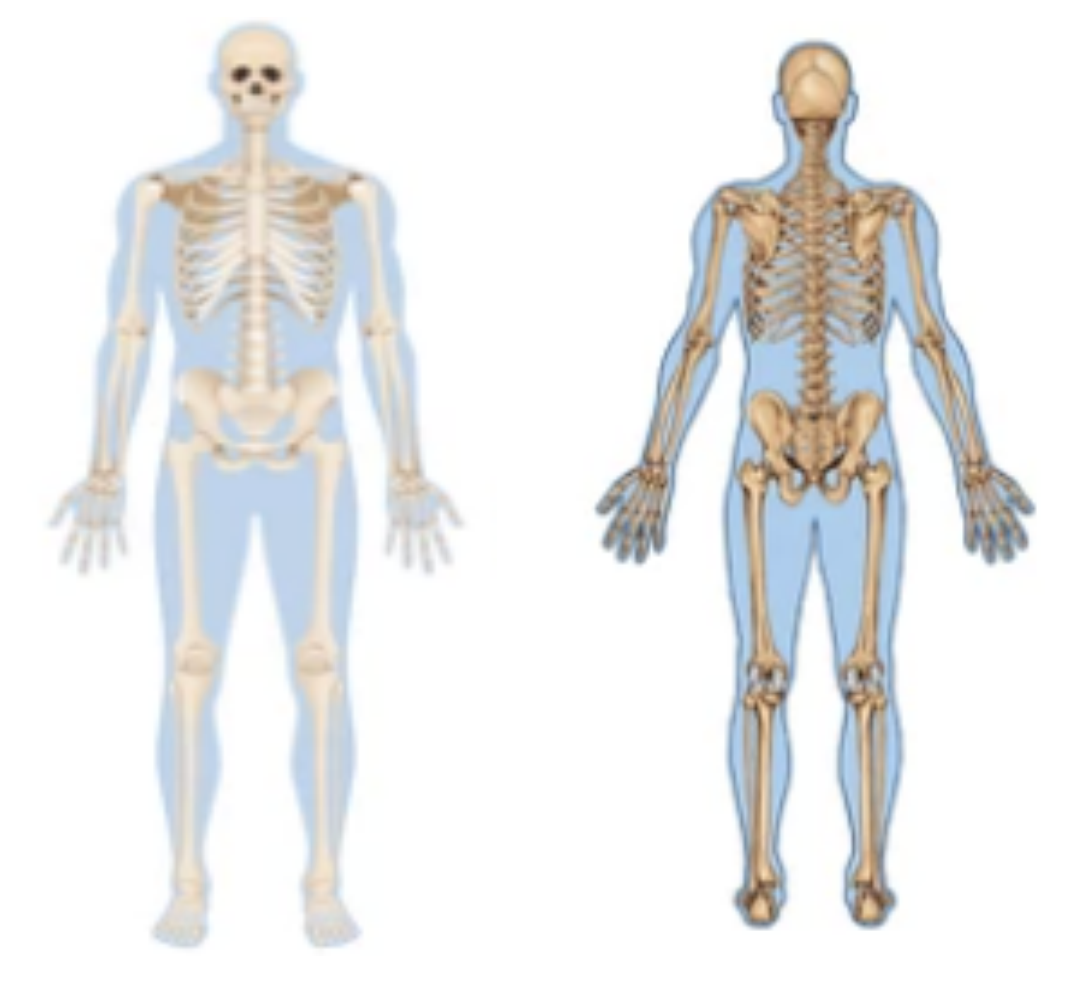
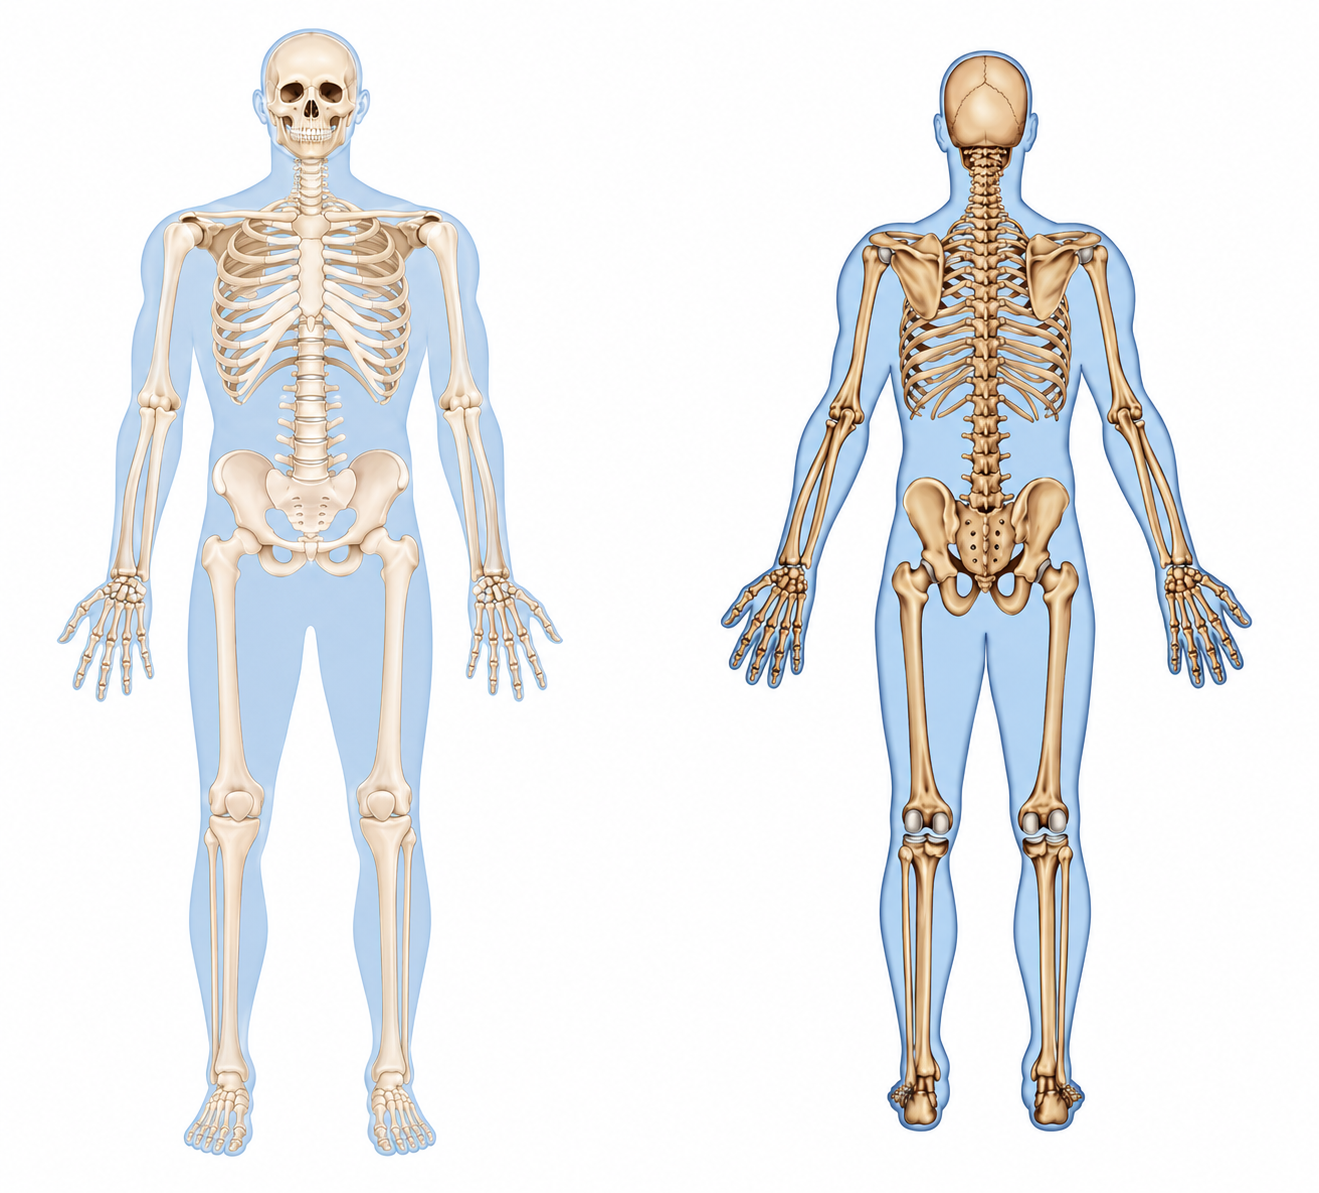
fix(investigation-reports): resolve 6 QA bugs
- Editor (Parts A/A1/A2/L): clicking anywhere in the TipTap container now focuses the editor (onClick on wrapper div)
- Part K table: add align-top to td cells and whitespace-nowrap to headers so Investigator Team / Name columns are properly inline
- B1/B2/B3 checkboxes: IncidentSectionB now accepts bodyPartsSummary/injuryTypesSummary/mechanismsSummary override props; detail page and PDF template pass the report's stored arrays instead of deriving from incident injured persons
- PDF HTML rendering: Section A description, A1 task, A2 equipment now use dangerouslySetInnerHTML in PDF template to prevent raw <p> tags appearing
- Re-create after soft-delete: replace hard @unique on incidentId with a conditional unique index (WHERE isActive = true) via migration; service create() now checks isActive: true via findFirst

Changed region(s): [[0.5303, 0.0304, 0.967, 0.9736], [0.0312, 0.0, 0.4367, 0.9736], [0.2183, 0.5172, 0.2495, 0.6085]]

diff --git a/frontend/src/modules/investigation-reports/components/InvestigationReportForm.tsx b/frontend/src/modules/investigation-reports/components/InvestigationReportForm.tsx
@@ -1475,9 +1475,9 @@ const InvestigationReportForm = ({ incident, report, mode }: Props) => {
                 <table className="w-full text-sm">
                   <thead>
                     <tr className="border-b bg-muted/40">
-                      <th className="text-left p-2 font-medium">Investigator Team / Tim Penyidik</th>
-                      <th className="text-left p-2 font-medium">Name / Nama</th>
-                      <th className="text-left p-2 font-medium">Date / Tanggal</th>
+                      <th className="text-left p-2 font-medium whitespace-nowrap">Investigator Team / Tim Penyidik</th>
+                      <th className="text-left p-2 font-medium whitespace-nowrap">Name / Nama</th>
+                      <th className="text-left p-2 font-medium whitespace-nowrap">Date / Tanggal</th>
                       <th className="w-10 p-2" />
                     </tr>
                   </thead>
@@ -1487,7 +1487,7 @@ const InvestigationReportForm = ({ incident, report, mode }: Props) => {
                       const label = role ? SIGNATORY_ROLE_LABELS[role] : null;
                       return (
                         <tr key={field.id} className="border-b last:border-0">
-                          <td className="p-2">
+                          <td className="p-2 align-top">
                             {label && (
                               <p className="text-xs font-medium text-muted-foreground mb-1">
                                 {label.en} / {label.id}
@@ -1506,7 +1506,7 @@ const InvestigationReportForm = ({ incident, report, mode }: Props) => {
                               )}
                             />
                           </td>
-                          <td className="p-2">
+                          <td className="p-2 align-top">
                             <FormField
                               control={form.control}
                               name={`signatories.${index}.name`}
@@ -1520,7 +1520,7 @@ const InvestigationReportForm = ({ incident, report, mode }: Props) => {
                               )}
                             />
                           </td>
-                          <td className="p-2">
+                          <td className="p-2 align-top">
                             <FormField
                               control={form.control}
                               name={`signatories.${index}.signedAt`}

diff --git a/frontend/src/modules/investigation-reports/components/incident-readonly/IncidentSectionB.tsx b/frontend/src/modules/investigation-reports/components/incident-readonly/IncidentSectionB.tsx
@@ -14,6 +14,9 @@ interface Props {
   incident: Incident;
   variant?: SectionVariant;
   bodyDiagramUrl?: string | null;
+  bodyPartsSummary?: string[];
+  injuryTypesSummary?: string[];
+  mechanismsSummary?: string[];
 }
 
 // PRD §B1 — HEAD and NECK collapse into a single "Head / Neck" choice.
@@ -79,19 +82,34 @@ const LEVEL_OF_INJURY_ROWS: Array<{
   { value: IncidentClassificationEnum.FATALITY, en: 'Fatality (loss of life)', id: 'Kehilangan nyawa' },
 ];
 
-const IncidentSectionB = ({ incident, variant = 'card', bodyDiagramUrl }: Props) => {
+const IncidentSectionB = ({
+  incident,
+  variant = 'card',
+  bodyDiagramUrl,
+  bodyPartsSummary,
+  injuryTypesSummary,
+  mechanismsSummary,
+}: Props) => {
   const persons = incident.injuredPersons ?? [];
   const hasPersons = persons.length > 0;
 
-  const bodyParts = new Set<string>(persons.map((p) => p.injuredBodyPart));
-  const typesOfInjury = new Set<string>(persons.map((p) => p.typeOfInjury));
-  const mechanisms = new Set<string>(persons.map((p) => p.mechanismOfInjury));
+  const bodyParts = bodyPartsSummary
+    ? new Set<string>(bodyPartsSummary)
+    : new Set<string>(persons.map((p) => p.injuredBodyPart));
+  const typesOfInjury = injuryTypesSummary
+    ? new Set<string>(injuryTypesSummary)
+    : new Set<string>(persons.map((p) => p.typeOfInjury));
+  const mechanisms = mechanismsSummary
+    ? new Set<string>(mechanismsSummary)
+    : new Set<string>(persons.map((p) => p.mechanismOfInjury));
+
+  const hasData = bodyPartsSummary ? bodyPartsSummary.length > 0 || (injuryTypesSummary?.length ?? 0) > 0 || (mechanismsSummary?.length ?? 0) > 0 : hasPersons;
 
   const isBodyPartChecked = (row: typeof BODY_PART_ROWS[number]) =>
     row.values.some((v) => bodyParts.has(v));
 
   if (variant === 'pdf') {
-    if (!hasPersons) {
+    if (!hasData) {
       return (
         <SectionShell variant="pdf" title="B. Injury Details / Rincian Cidera">
           <p style={{ marginBottom: 12 }}>No injured person during this incident.</p>
@@ -155,7 +173,7 @@ const IncidentSectionB = ({ incident, variant = 'card', bodyDiagramUrl }: Props)
 
   return (
     <SectionShell variant={variant} title="B. Injury Details / Rincian Cidera">
-      {!hasPersons ? (
+      {!hasData ? (
         <p className="text-sm text-muted-foreground">
           No injured person during this incident.
         </p>

diff --git a/frontend/src/modules/investigation-reports/components/InvestigationReportPDFTemplate.tsx b/frontend/src/modules/investigation-reports/components/InvestigationReportPDFTemplate.tsx
@@ -148,14 +148,35 @@ const InvestigationReportPDFTemplate = ({ report }: { report: InvestigationRepor
       </PdfSectionTitle>
       <table style={{ width: '100%', borderCollapse: 'collapse', marginBottom: 12 }}>
         <tbody>
-          <PdfRow label="A1. Task Performed" value={report.taskBeingPerformed ?? '—'} />
-          <PdfRow label="A2. Equipment Used" value={report.equipmentUsed ?? '—'} />
+          <PdfRow
+            label="A1. Task Performed"
+            value={
+              report.taskBeingPerformed
+                ? <span dangerouslySetInnerHTML={{ __html: report.taskBeingPerformed }} />
+                : '—'
+            }
+          />
+          <PdfRow
+            label="A2. Equipment Used"
+            value={
+              report.equipmentUsed
+                ? <span dangerouslySetInnerHTML={{ __html: report.equipmentUsed }} />
+                : '—'
+            }
+          />
         </tbody>
       </table>
 
       {incident && (
         <>
-          <IncidentSectionB incident={incident} variant="pdf" bodyDiagramUrl={report.bodyDiagramUrl} />
+          <IncidentSectionB
+            incident={incident}
+            variant="pdf"
+            bodyDiagramUrl={report.bodyDiagramUrl}
+            bodyPartsSummary={report.bodyPartsSummary}
+            injuryTypesSummary={report.injuryTypesSummary}
+            mechanismsSummary={report.mechanismsSummary}
+          />
           <IncidentSectionC incident={incident} variant="pdf" />
           <IncidentSectionD incident={incident} variant="pdf" />
           <IncidentSectionE incident={incident} variant="pdf" />

diff --git a/backend/src/modules/investigation-reports/services/investigation-reports.service.ts b/backend/src/modules/investigation-reports/services/investigation-reports.service.ts
@@ -263,7 +263,6 @@ export class InvestigationReportsService {
       select: {
         id: true,
         needFurtherInvestigation: true,
-        investigationReport: { select: { id: true } },
       },
     });
     this.errorHandler.throwIfNotFoundById('Incident', dto.incidentId, incident);
@@ -272,7 +271,11 @@ export class InvestigationReportsService {
         'Cannot create investigation report — incident is not flagged for further investigation',
       );
     }
-    if (incident!.investigationReport) {
+    const existingReport = await this.prisma.investigationReport.findFirst({
+      where: { incidentId: dto.incidentId, isActive: true },
+      select: { id: true },
+    });
+    if (existingReport) {
       this.errorHandler.throwConflictCustom(
         'An investigation report already exists for this incident',
       );

diff --git a/frontend/src/modules/investigation-reports/pages/InvestigationReportDetailPage.tsx b/frontend/src/modules/investigation-reports/pages/InvestigationReportDetailPage.tsx
@@ -251,7 +251,13 @@ const InvestigationReportDetailPage = () => {
 
         {report.incident && (
           <>
-            <IncidentSectionB incident={report.incident} bodyDiagramUrl={report.bodyDiagramUrl} />
+            <IncidentSectionB
+              incident={report.incident}
+              bodyDiagramUrl={report.bodyDiagramUrl}
+              bodyPartsSummary={report.bodyPartsSummary}
+              injuryTypesSummary={report.injuryTypesSummary}
+              mechanismsSummary={report.mechanismsSummary}
+            />
             <IncidentSectionC incident={report.incident} />
             <IncidentSectionD incident={report.incident} />
             <IncidentSectionE incident={report.incident} />

diff --git a/frontend/src/modules/investigation-reports/components/incident-readonly/IncidentSectionA.tsx b/frontend/src/modules/investigation-reports/components/incident-readonly/IncidentSectionA.tsx
@@ -50,7 +50,11 @@ const IncidentSectionA = ({ incident, reportNumber, variant = 'card' }: Props) =
             />
             <PdfRow
               label="Description / Deskripsi Kejadian"
-              value={incident.description ?? '—'}
+              value={
+                incident.description
+                  ? <span dangerouslySetInnerHTML={{ __html: incident.description }} />
+                  : '—'
+              }
             />
           </tbody>
         </table>

diff --git a/frontend/src/core/components/ui/editor.tsx b/frontend/src/core/components/ui/editor.tsx
@@ -32,7 +32,7 @@ export function Editor({ value, onChange, className }: EditorProps) {
   }
 
   return (
-    <div className={cn('border rounded-md', className)}>
+    <div className={cn('border rounded-md', className)} onClick={() => editor?.commands.focus()}>
       <div className="border-b p-2 flex gap-2">
         <Button
           type="button"
